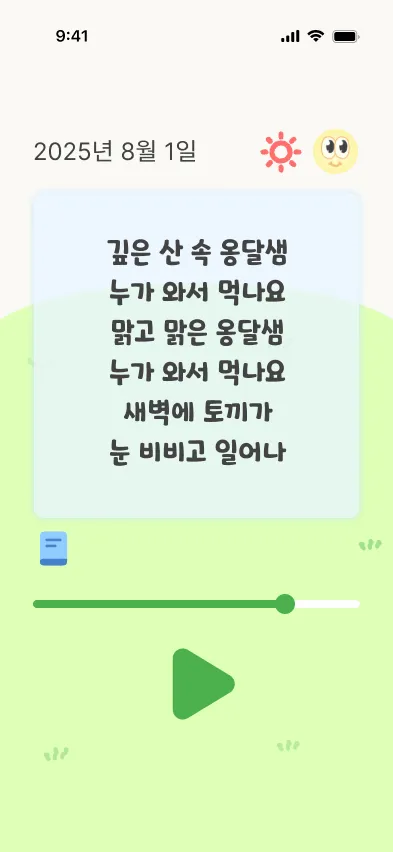
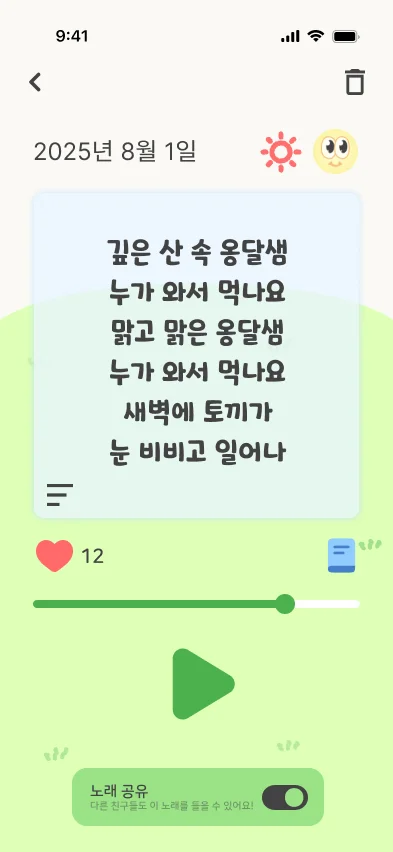
chore: 랜딩 step5-done · feature-lyrics 스크린샷 최신 디자인으로 교체
- 문제: step5-done.webp, feature-lyrics.webp 가 헤더·좋아요·공유 토글이 없는 옛 화면이었음
- 해결: Figma 881:3052 / 881:3000 새 디자인을 393x852 webp 로 export 해 같은 경로에 덮어쓰기
- step5-done 의 width/height 속성도 새 PNG 실제 해상도(393x852)에 정합 (비율은 동일해 시각적 변화 없음)

diff --git a/index.html b/index.html
@@ -217,7 +217,7 @@
             <li class="reveal d5 w-40 shrink-0 snap-center sm:w-auto">
               <div class="relative mb-4 overflow-hidden rounded-[1.6rem] bg-white shadow-lg ring-1 ring-black/5">
                 <span class="absolute left-3 top-3 z-10 flex h-7 w-7 items-center justify-center rounded-full bg-jjan-grass text-sm font-bold text-jjan-text shadow">5</span>
-                <img src="/images/landing/step5-done.webp" alt="완성된 일기 화면" width="590" height="1278" loading="lazy" class="block w-full" />
+                <img src="/images/landing/step5-done.webp" alt="완성된 일기 화면" width="393" height="852" loading="lazy" class="block w-full" />
               </div>
               <h3 class="text-center font-bold text-jjan-text">일기 완성</h3>
               <p class="text-center text-sm text-jjan-muted-strong">짠! 그림과 노래 완성</p>